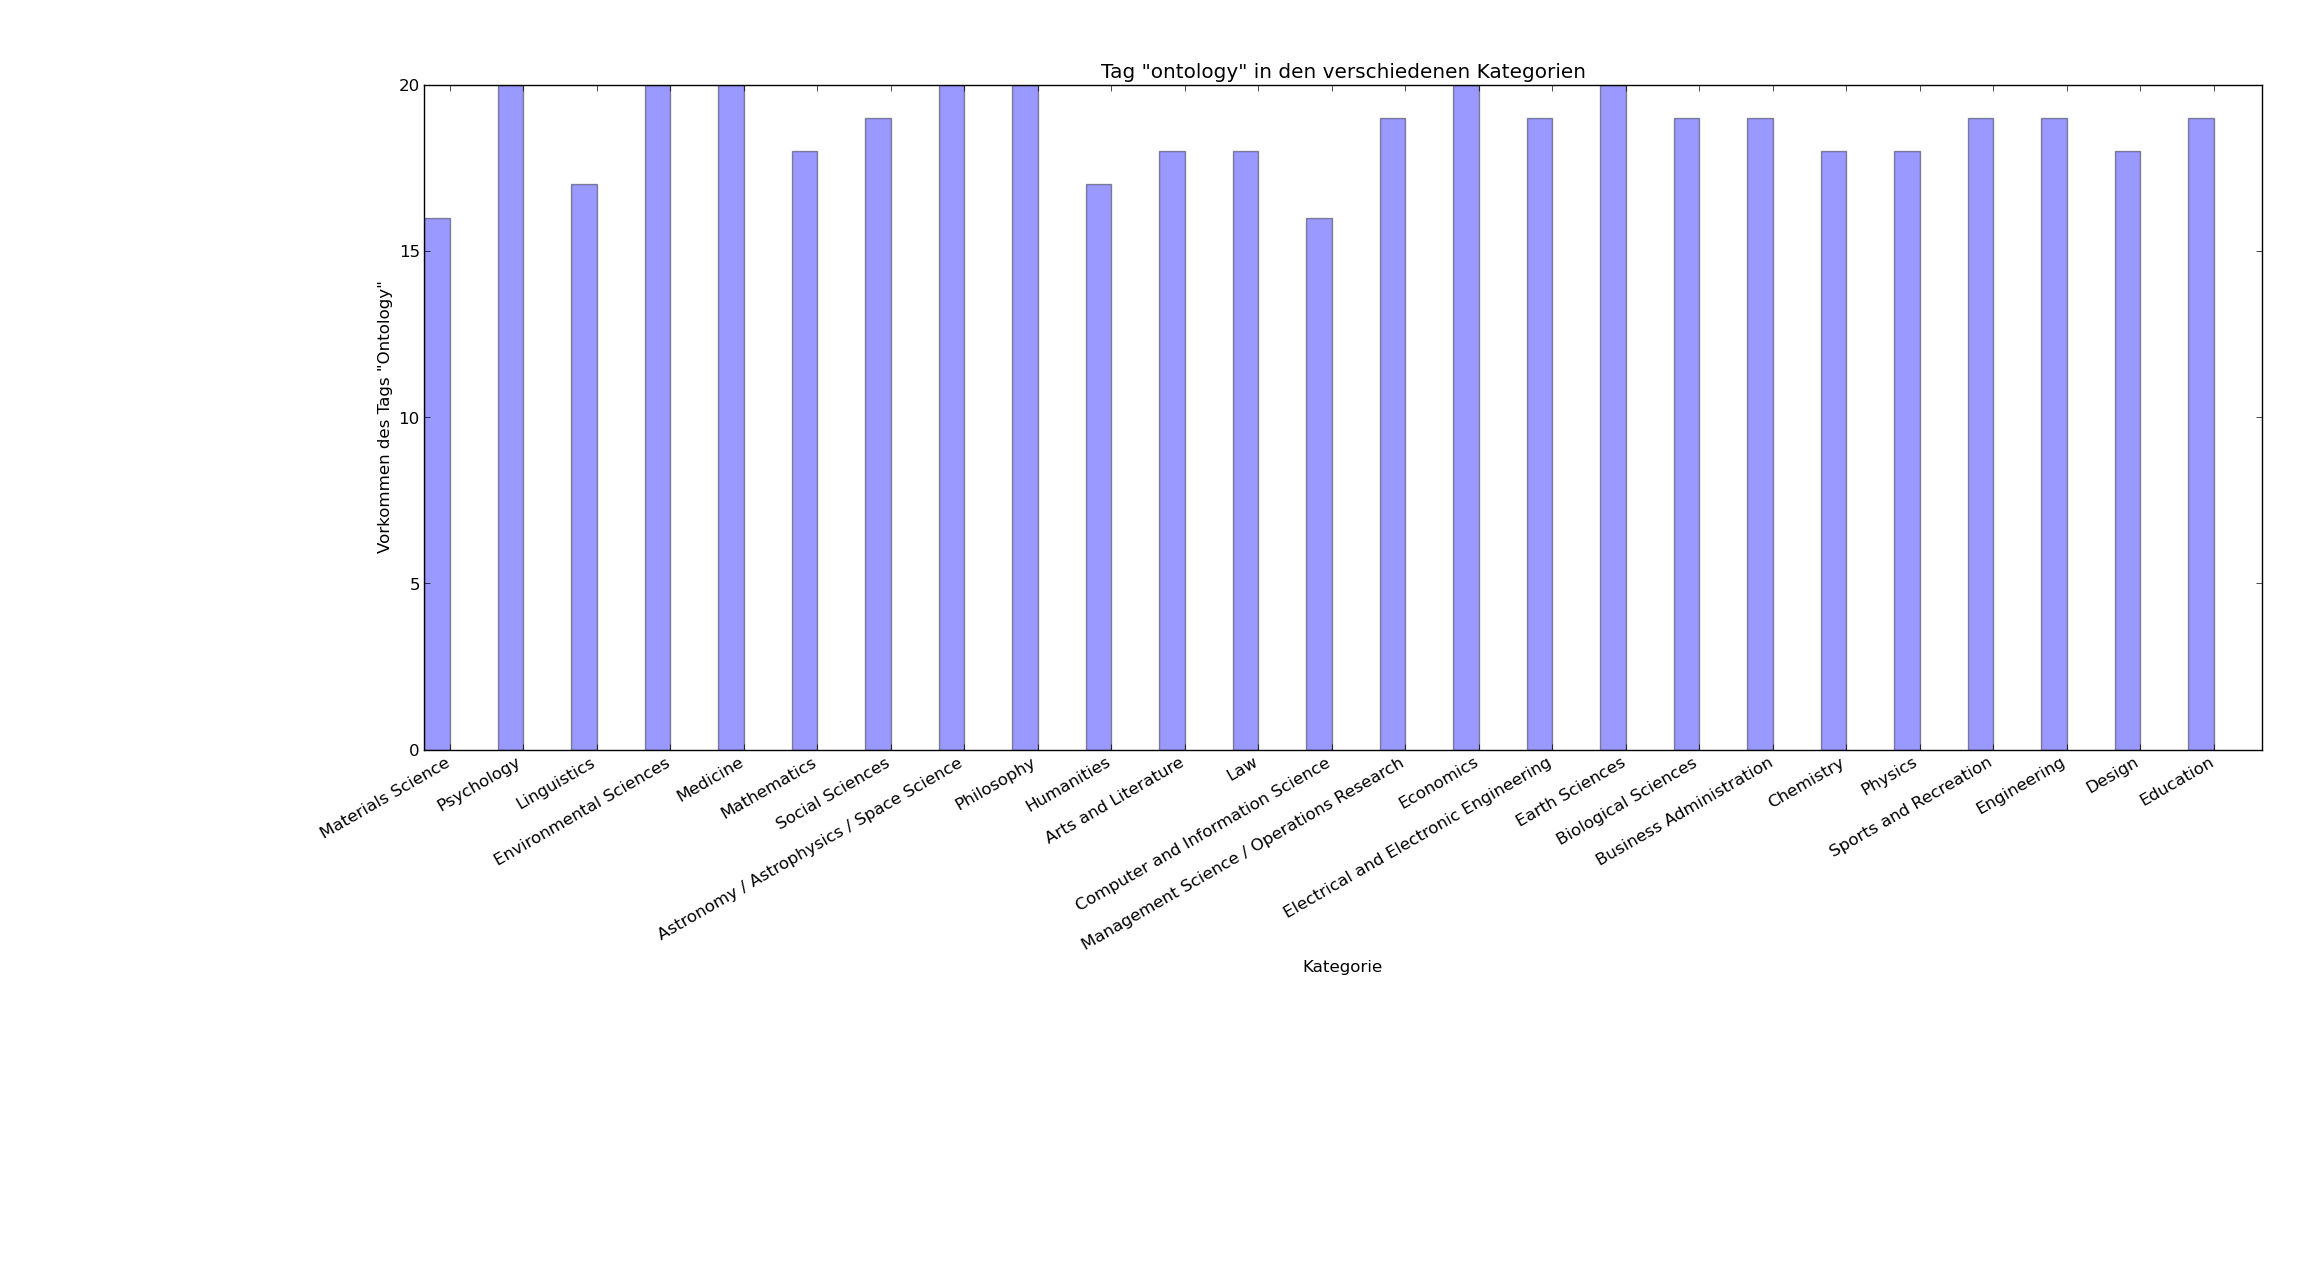
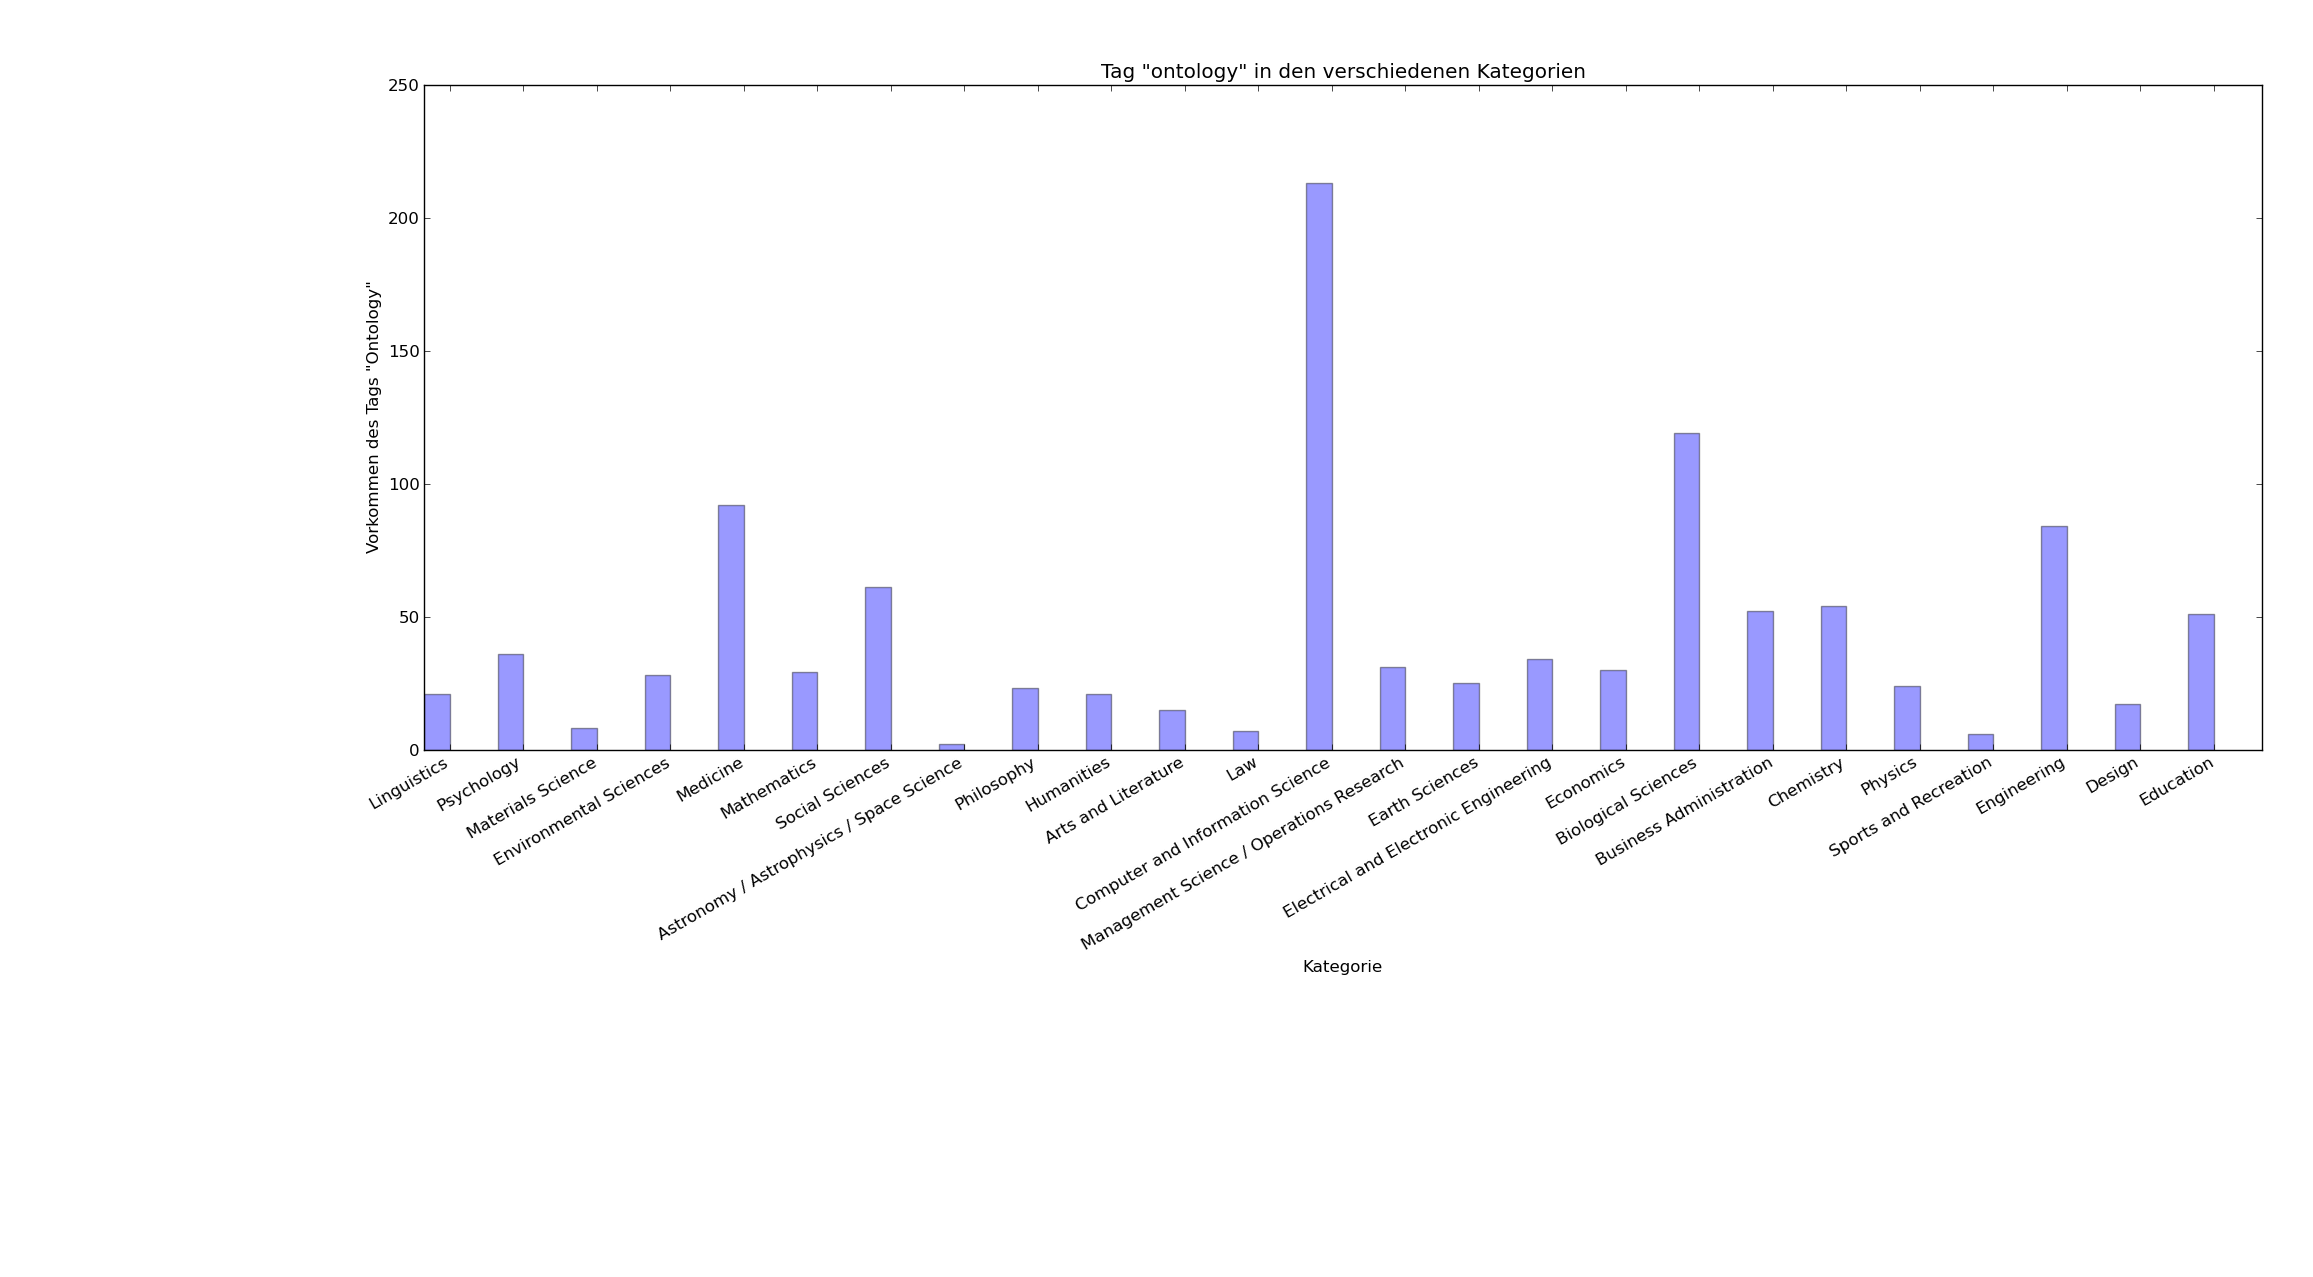
Aufgabe 5 fertig

diff --git a/hole_daten.py b/hole_daten.py
@@ -86,29 +86,29 @@ print "\n ---------------------- \n"
 # aufgabe 5: Suche nach dem Tag „ontology“ und bestimme die Häufigkeit für jede Kategorie in Mendeley für das Jahr 2011.
 # erster schritt: liste mit allen kategorien holen:
 cat_response = mendeley.categories()
-print "Häufigket des Tags 'ontology' in Kategorien (2011, mehrmaliges Auftreten in einem Dok. noch nicht beachtet)\n"
+print "Häufigket des Tags 'ontology' in Kategorien \n"
 ontology_anzahl={}
 total_pages = 1
 page = 0
-print cat_response
-for eintrag in cat_response:
-    print eintrag
+#print cat_response
+#for eintrag in cat_response:
+#    print eintrag
 for eintrag in cat_response: # jede kategorie durchgehen
     
     while not page > total_pages-1: 
-        print page
+ #       print page
         response = mendeley.tagged('ontology',cat=eintrag['id'], items = 10,page=page)
-        print response['total_results']
+#        print response['total_results']
         total_pages = response['total_pages']
         for dokument in response['documents']:
-            print dokument['title'].encode('utf-8') + " Jahr: " + str(dokument['year'])
+#            print dokument['title'].encode('utf-8') + " Jahr: " + str(dokument['year'])
             if dokument['year'] == 2011:
                 if eintrag['name'] in ontology_anzahl:
                     ontology_anzahl[eintrag['name']]+=1
                 else:
                     ontology_anzahl[eintrag['name']]=1
         page += 1
-    print "\n\n Eintrag: " + str(eintrag) + "\n\n"
+ #   print "\n\n Eintrag: " + str(eintrag) + "\n\n"
     page = 0
 
 with open("aufgabe5.json", "w") as json_output:
